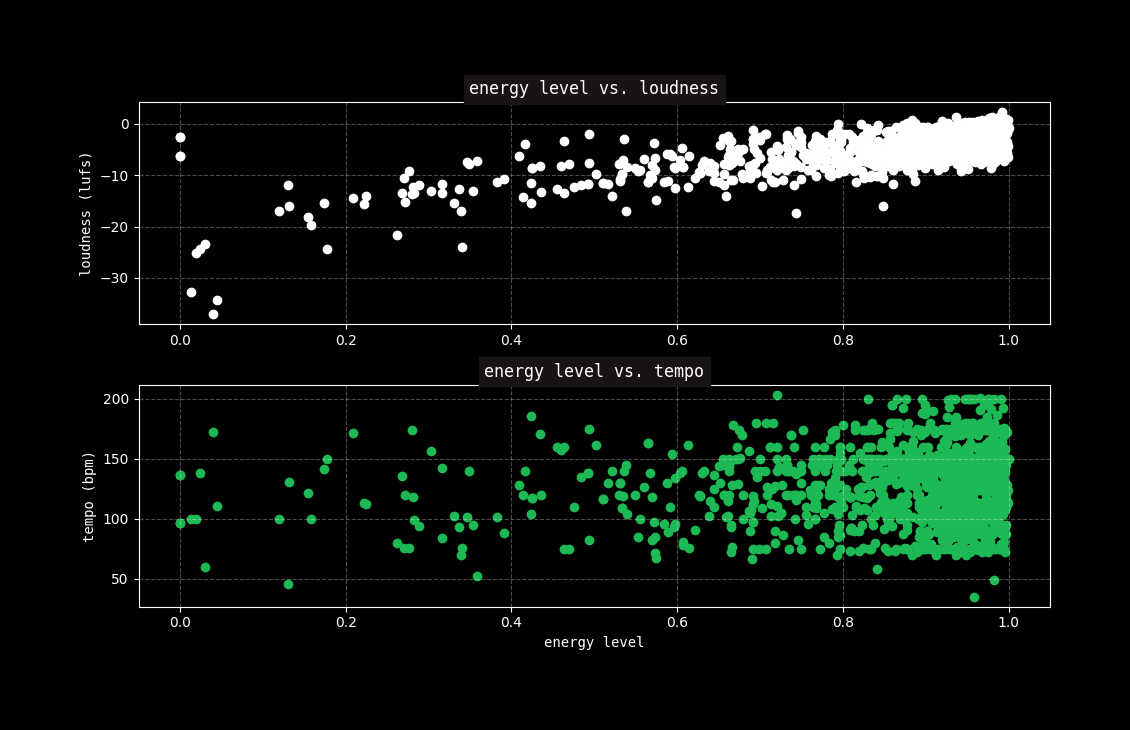
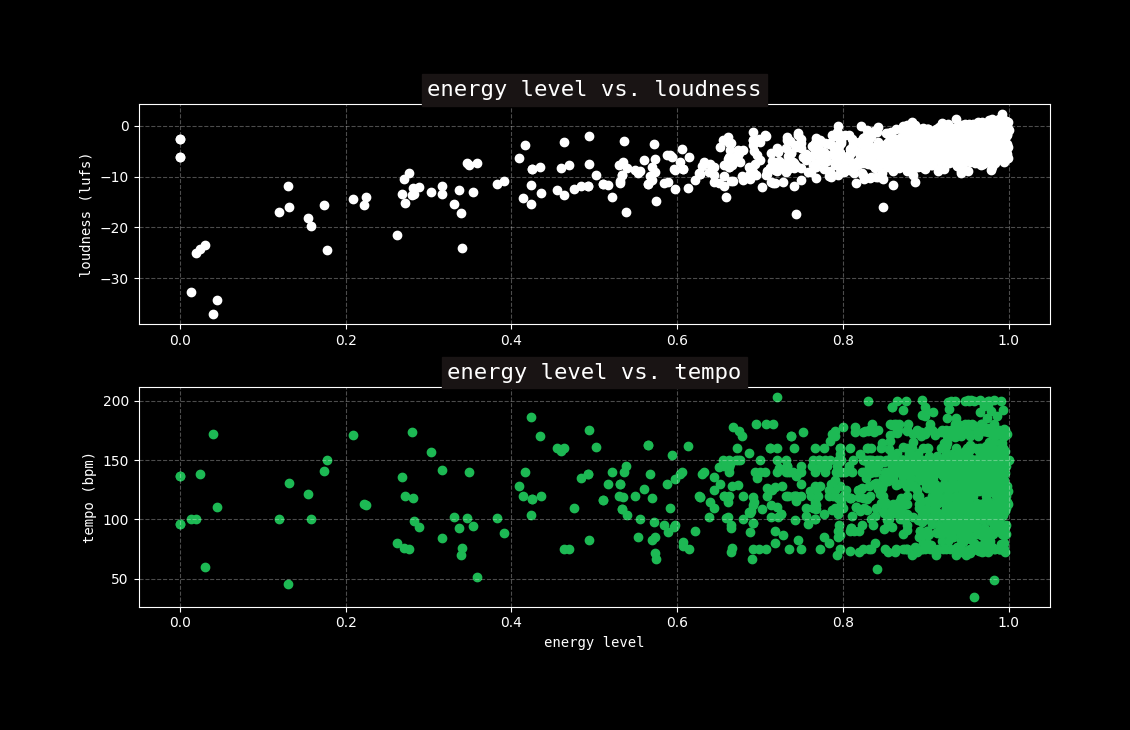
created and tested another function to create subgenre axes

diff --git a/app/visualizations.py b/app/visualizations.py
@@ -11,17 +11,17 @@ def energy_vs_loudness_tempo(db):
     fig, (ax1, ax2) = plt.subplots(2, 1, figsize=(10, 6))
 
     ax1.scatter(df["energy"], df["loudness"], c="#FFFFFF")
-    ax1.set_title("energy level vs. loudness", fontname="monospace", backgroundcolor="#191414")
+    ax1.set_title("energy level vs. loudness", fontname="monospace", fontsize=16, backgroundcolor="#191414")
     ax1.set_ylabel("loudness (lufs)", fontname="monospace")
     ax1.grid(color="#FFFFFF", linestyle='--', alpha=.3)
 
     ax2.scatter(df["energy"], df["tempo"], c="#1DB954")
-    ax2.set_title("energy level vs. tempo", fontname="monospace", backgroundcolor="#191414")
+    ax2.set_title("energy level vs. tempo", fontname="monospace", fontsize=16, backgroundcolor="#191414")
     ax2.set_xlabel("energy level", fontname="monospace")
     ax2.set_ylabel("tempo (bpm)", fontname="monospace")
     ax2.grid(color="#FFFFFF", linestyle='--', alpha=.3)
 
-    fig.tight_layout()
+    plt.tight_layout()
     plt.savefig("images/energy-vs-loudness-tempo.png", bbox_inches='tight', pad_inches=.8)
 
 
@@ -44,7 +44,7 @@ def loudness_vs_danceability(db):
     plt.savefig("images/loudness-vs-danceability.png", bbox_inches='tight', pad_inches=.6)
 
 
-def make_axes(ax, data1, data2, title, ylabel):
+def make_axes_genres(ax, data1, data2, title, ylabel):
     ax.bar("heavy electronic", data1, color="#1DB954")
     ax.bar("metal", data2, color="#FFFFFF", alpha=.9)
     ax.set_title(title, fontname="monospace", backgroundcolor="#191414", color="#FFFFFF")
@@ -76,37 +76,23 @@ def genre_style_comparison(db):
     fig.suptitle('genre style comparisons', fontsize=18, fontname="monospace", y=1.01, backgroundcolor="#FFFFFF", color="#191414")
     fig.text(0.5, -0.02, 'genre', ha='center', fontsize=14, fontname="monospace")
 
-    # ax1.bar("heavy electronic", avg_danceability_elec, color="#1DB954") # if statement for color and alpha setting
-    # ax1.bar("metal", avg_danceability_metal, color="#FFFFFF", alpha=.9)
-    # ax1.set_title("danceability", fontname="monospace", backgroundcolor="#191414", color="#FFFFFF")
-    # ax1.set_ylabel("avg danceability score", fontname="monospace")
-    # ax1.grid(color="#FFFFFF", linestyle="--", alpha=.3)
-    
-    make_axes(ax1, avg_danceability_elec, avg_danceability_metal, "danceability", "avg danceability score")
-
-    ax2.bar("heavy electronic", avg_loudness_elec, color="#1DB954")
-    ax2.bar("metal", avg_loudness_metal, color="#FFFFFF", alpha=.9)
-    ax2.set_title("loudness", fontname="monospace", backgroundcolor="#191414", color="#FFFFFF")
-    ax2.set_ylabel("avg loudness (lufs)", fontname="monospace")
-    ax2.grid(color="#FFFFFF", linestyle="--", alpha=.3)
-
-    ax3.bar("heavy electronic", avg_valence_elec, color="#1DB954")
-    ax3.bar("metal", avg_valence_metal, color="#FFFFFF", alpha=.9)
-    ax3.set_title("valence", fontname="monospace", backgroundcolor="#191414", color="#FFFFFF")
-    ax3.set_ylabel("avg valence score", fontname="monospace")
-    ax3.grid(color="#FFFFFF", linestyle="--", alpha=.3)
-
-    ax4.bar("heavy electronic", avg_tempo_elec, color="#1DB954")
-    ax4.bar("metal", avg_tempo_metal, color="#FFFFFF", alpha=.9)
-    ax4.set_title("tempo", fontname="monospace", backgroundcolor="#191414", color="#FFFFFF")
-    ax4.set_ylabel("avg tempo (bpm)", fontname="monospace")
-    ax4.grid(color="#FFFFFF", linestyle="--", alpha=.3)
+    make_axes_genres(ax1, avg_danceability_elec, avg_danceability_metal, "danceability", "avg danceability score")
+    make_axes_genres(ax2, avg_loudness_elec, avg_loudness_metal, "loudness", "avg loudness (lufs)")
+    make_axes_genres(ax3, avg_valence_elec, avg_valence_metal, "valence", "avg valence score")
+    make_axes_genres(ax4, avg_tempo_elec, avg_tempo_metal, "tempo", "avg tempo (bpm)")
 
     plt.tight_layout()
     plt.savefig("images/genre-style-comparison.png", bbox_inches='tight', pad_inches=.8)
 
 
-# # SUB-GENRE STYLE COMPARISONS ###################
+
+def makes_axes_subgenres(ax, df, filt1, filt2, metric, xlabel):
+    ax.barh(df["genre"][filt1], df[metric][filt1], color="#FFFFFF", label="metal", alpha=.9)
+    ax.barh(df["genre"][filt2], df[metric][filt2], color="#1DB954", label="heavy electronic")
+    ax.set_title(metric, fontname="monospace", backgroundcolor="#191414", color="#FFFFFF")
+    ax.set_xlabel(xlabel, fontname="monospace")
+    ax.grid(color="#FFFFFF", linestyle="--", alpha=.3)
+    
 def subgenre_style_comparison(db):
     # GET DATA
     db.execute("SELECT * FROM V_genre_features")
@@ -122,11 +108,14 @@ def subgenre_style_comparison(db):
     fig, ((ax1, ax2), (ax3, ax4)) = plt.subplots(2, 2, figsize=(10, 6))
     fig.suptitle('sub-genre style comparisons', fontsize=18, fontname="monospace", y=1.01, backgroundcolor="#FFFFFF", color="#191414")
 
-    ax1.barh(df["genre"][metal_filter], df["danceability"][metal_filter], color="#FFFFFF", label="metal", alpha=.9)
-    ax1.barh(df["genre"][elec_filter], df["danceability"][elec_filter], color="#1DB954", label="heavy electronic")
-    ax1.set_title("danceability", fontname="monospace", backgroundcolor="#191414", color="#FFFFFF")
-    ax1.set_xlabel("danceability score", fontname="monospace")
-    ax1.grid(color="#FFFFFF", linestyle="--", alpha=.3)
+    
+    makes_axes_subgenres(ax1, df, metal_filter, elec_filter, "danceability", "danceability score")
+    
+    # ax1.barh(df["genre"][metal_filter], df["danceability"][metal_filter], color="#FFFFFF", label="metal", alpha=.9)
+    # ax1.barh(df["genre"][elec_filter], df["danceability"][elec_filter], color="#1DB954", label="heavy electronic")
+    # ax1.set_title("danceability", fontname="monospace", backgroundcolor="#191414", color="#FFFFFF")
+    # ax1.set_xlabel("danceability score", fontname="monospace")
+    # ax1.grid(color="#FFFFFF", linestyle="--", alpha=.3)
 
     ax2.barh(df["genre"][metal_filter], df["loudness"][metal_filter], color="#FFFFFF", alpha=.9)
     ax2.barh(df["genre"][elec_filter], df["loudness"][elec_filter], color="#1DB954",)
@@ -156,10 +145,11 @@ def subgenre_style_comparison(db):
 def main():
     db = DB()
     plt.style.use("dark_background")
-    # energy_vs_loudness_tempo(db)
-    # loudness_vs_danceability(db)
+    plt.tight_layout()
+    energy_vs_loudness_tempo(db)
+    loudness_vs_danceability(db)
     genre_style_comparison(db)
-    # subgenre_style_comparison(db)
+    subgenre_style_comparison(db)
 
 
 if __name__ == "__main__":
